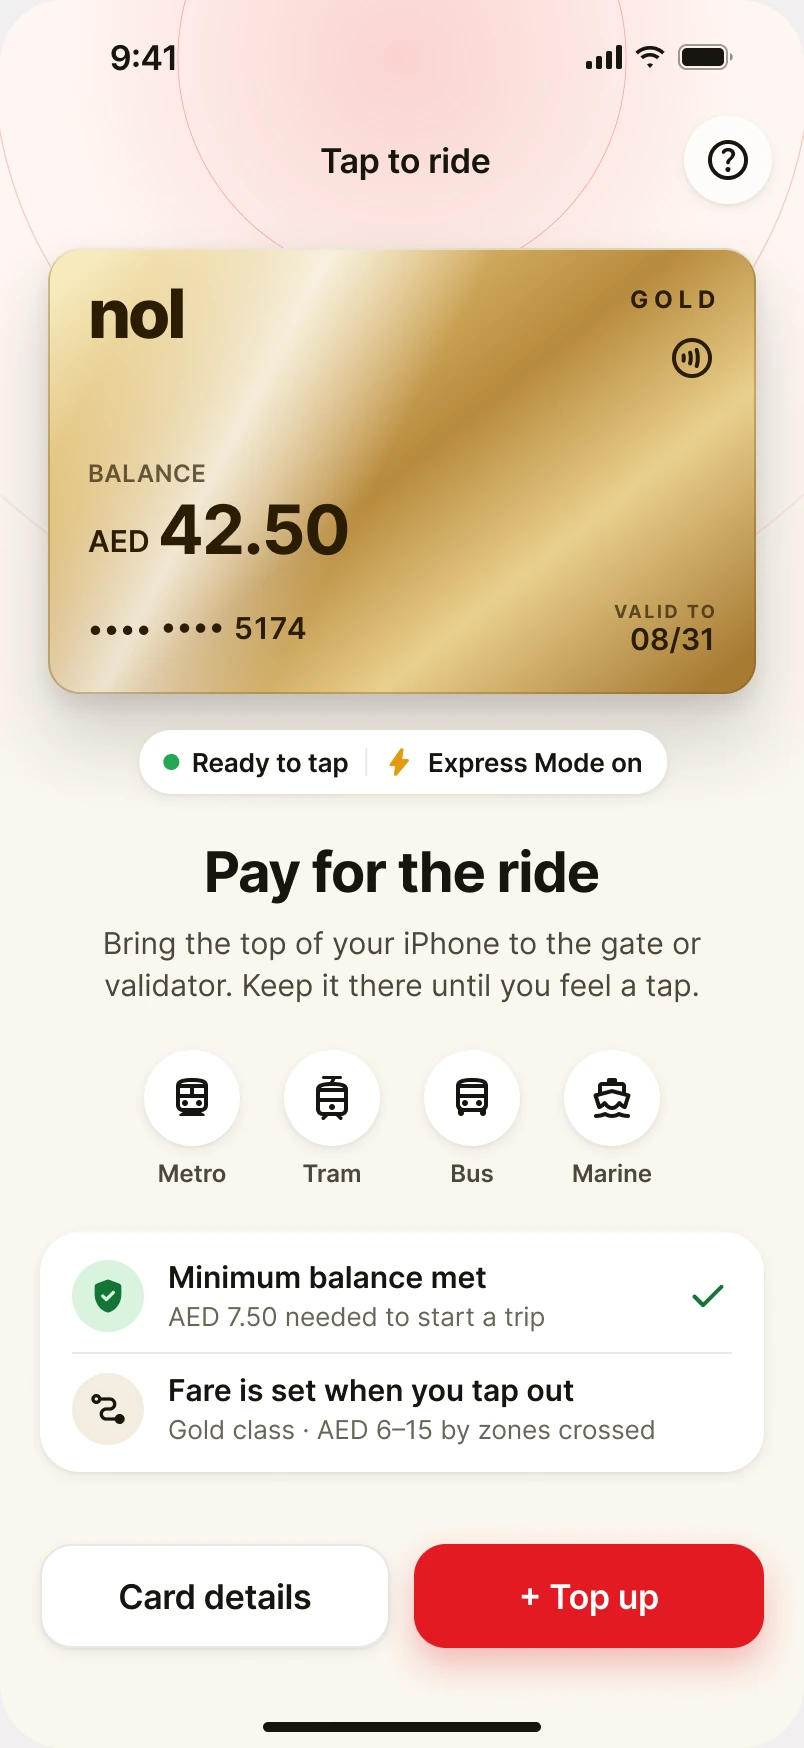
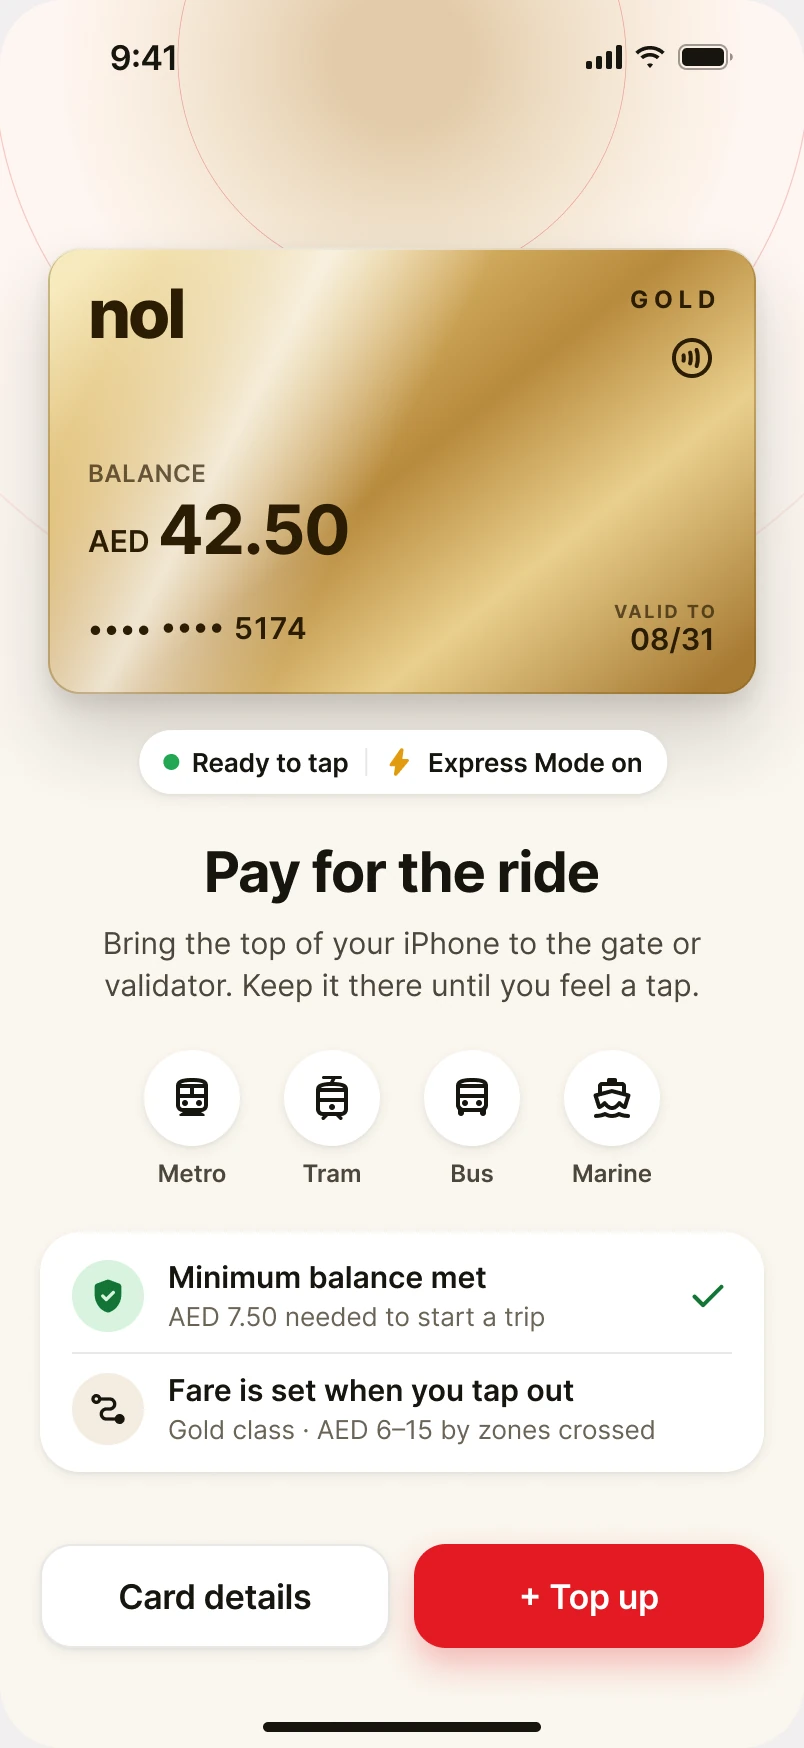
RTA Dubai section: new background on screens 1 and 2
Re-exported "01 NFC tap-in" and "02 Trip started" from Figma at 2x after
the background glow changed from pink to beige/gold. Their links get ?v=2
so browsers drop the cached images.

Changed region(s): [[0.2799, 0.0, 0.7152, 0.1545], [0.8706, 0.0618, 0.9328, 0.1236]]

diff --git a/portfolio/native-mobile-apps.html b/portfolio/native-mobile-apps.html
@@ -1438,10 +1438,10 @@
   <!-- RTA Dubai screens (Figma page "RTA Dubai": 243:2, 244:2, 245:2, 246:2), exported at 2×,
        shown with the Surprise Me phone style (.sm) -->
   <template id="tpl-rta-tap">
-    <div class="sm"><img src="./NATIVE MOBILE APPS/rta-dubai/1.webp" width="402" height="874" alt="" decoding="async" /></div>
+    <div class="sm"><img src="./NATIVE MOBILE APPS/rta-dubai/1.webp?v=2" width="402" height="874" alt="" decoding="async" /></div>
   </template>
   <template id="tpl-rta-trip">
-    <div class="sm"><img src="./NATIVE MOBILE APPS/rta-dubai/2.webp" width="402" height="874" alt="" decoding="async" /></div>
+    <div class="sm"><img src="./NATIVE MOBILE APPS/rta-dubai/2.webp?v=2" width="402" height="874" alt="" decoding="async" /></div>
   </template>
   <template id="tpl-rta-zone">
     <div class="sm"><img src="./NATIVE MOBILE APPS/rta-dubai/3.webp" width="402" height="874" alt="" decoding="async" /></div>
